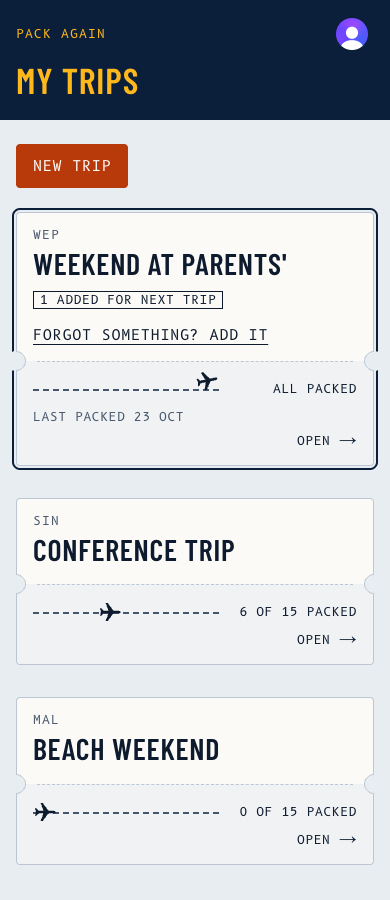
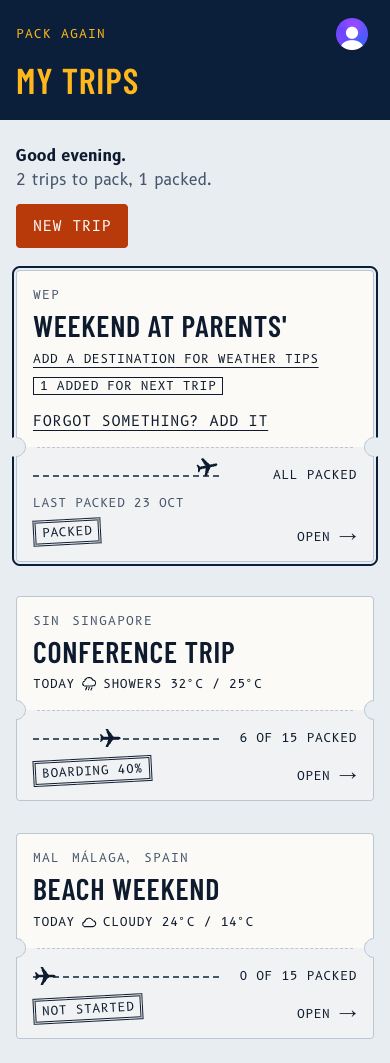
Retake the after screenshots for batch 3
Cards show where each trip goes, today's weather there or an invitation
to add a destination, and a status stamp; My trips greets the person. One
new screen: a trip opened from the invitation.

diff --git a/docs/polish-2/README.md b/docs/polish-2/README.md
@@ -17,6 +17,9 @@ Every screen before and after the second polish pass (branch `polish`), at 390 p
 ## New in `after/`
 
 - `34-trip-options-menu`: the Trip options menu, open (batch 1).
+- `35-trip-from-add-destination`: a trip opened from a card's "Add a destination for weather tips", with focus in Destination (batch 3). Taken by arriving at each width, since resizing after arriving would hide the phone's zone.
+
+The test accounts have no first name in Clerk, so the greeting on My trips says "Good evening." with no name.
 
 ## Not captured
 
